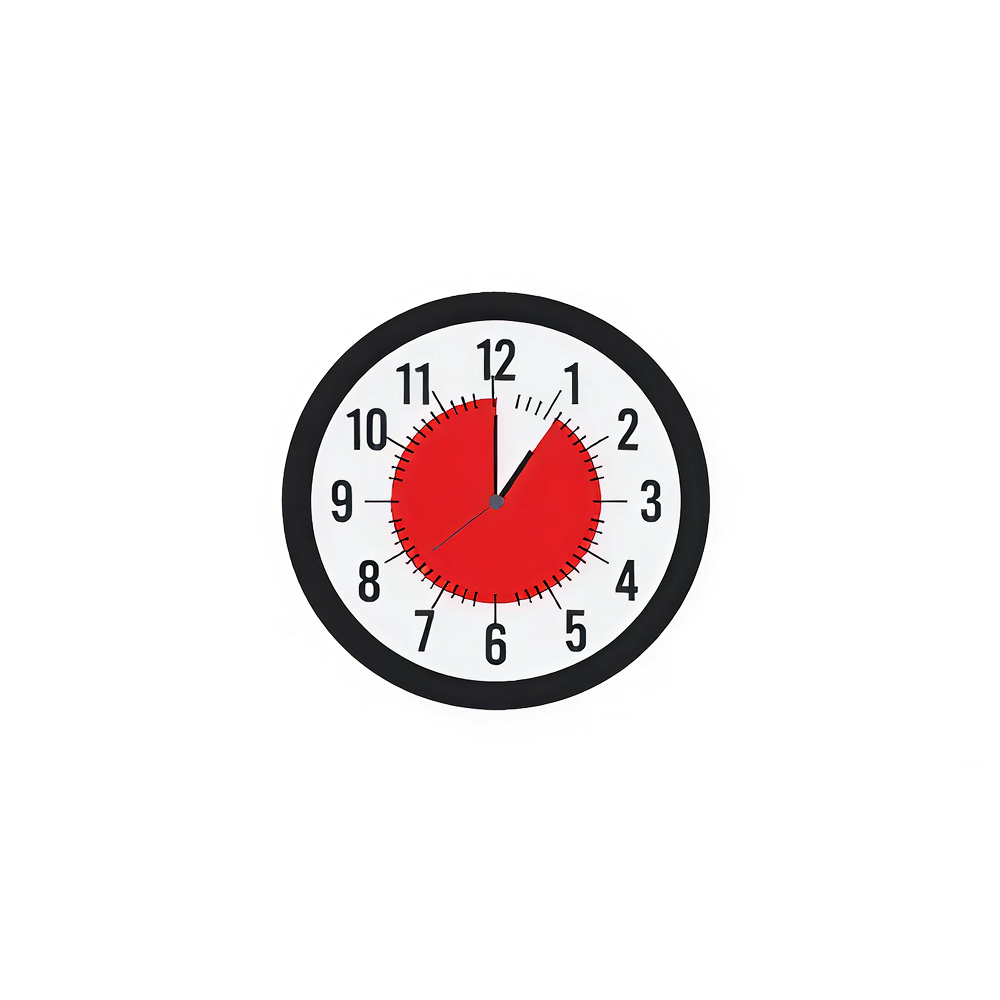
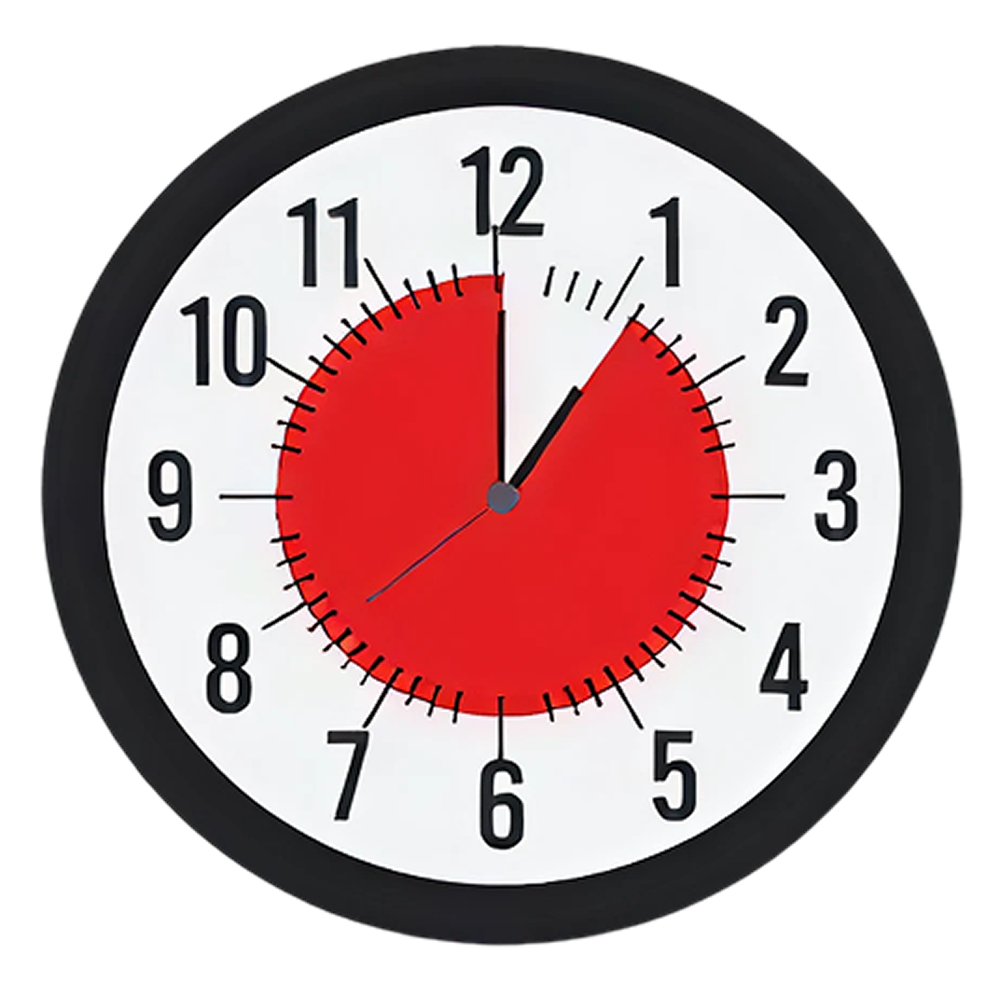
changes

diff --git a/src/index.css b/src/index.css
@@ -473,12 +473,19 @@ input[type="number"]::-webkit-outer-spin-button {
   /* background: linear-gradient(180deg, #feffff 0%, #dceaf7 100%); */
   background-color: #dceaf7;
 }
-
+.main-header-top{
+  padding-top: 20px;
+  position: sticky;
+  top: -30px;
+  z-index: 50;
+  left: 0;
+}
 .main-header {
   z-index: 9;
   max-width: 1024px;
   margin-left: auto;
   margin-right: auto;
+
 }
 
 .main-header > div {
@@ -716,9 +723,7 @@ input[type="number"]::-webkit-outer-spin-button {
   margin: 0;
   
 }
-.dash-hexuple-items .dashboard-cards p{
-line-height: 1.1;
-}
+
 .dashboard-cards {
   display: flex;
   flex-direction: column;
@@ -1456,12 +1461,12 @@ body,
 }
 
 .depressed-cards {
-  height: 500px;
-  width: 500px;
-  margin-left: auto;
-  margin-right: auto;
-  margin-bottom: 30px;
-  margin-top: 55px;
+     height: 400px;
+    width: 400px;
+    margin-left: auto;
+    margin-right: auto;
+    margin-bottom: 30px;
+    margin-top: 30px;
 }
 
 .depressed-cards .dashboard-img {
@@ -1575,30 +1580,31 @@ body,
 .topicSetting-hexuple-items .dashboard-cards {
   height: 100%;
   width: 100%;
+  justify-content: center;
 }
 
 .topicSetting-single-items {
-  height: 100vh;
+  height: 70vh;
   width: 100%;
 }
 
 .topicSetting-double-items {
-  height: 90vh;
+  height: 70vh;
   width: 100%;
 }
 
 .topicSetting-triple-items {
-  height: 85vh;
+  height: 68vh;
   width: 100%;
 }
 
 .topicSetting-quadriple-items {
-  height: 85vh;
+  height: 65vh;
   width: 100%;
 }
 
 .topicSetting-hexuple-items {
-  height: 41vh;
+  height: 33vh;
   width: 100%;
 }
 .custom-wdth {
@@ -2013,10 +2019,12 @@ body,
 }
 .topicSetting-quadriple-items .dashboard-cards{
   height: 100%;
-  justify-content: space-between;
 }
 .setting-page{
   padding-bottom: 30px;
+}
+.dash-hexuple-items .dashboard-cards p{
+line-height: 1.1;
 }
 }
 .down-arrow.hide {
@@ -2068,16 +2076,9 @@ body.font-cls {
   overflow: hidden;
 }
 .rating-bar-tp .line-bar{
-  top: 0;
+  top: 0; 
 }
 
-
-img {
-  -webkit-touch-callout: none; /* disables long-press menu */
-  -webkit-user-select: none;
-  user-select: none;
-  pointer-events: none; /* optional: fully disables interaction */
-}
 .imagelibarary-header{
       width: 100%;
     left: 50%;
@@ -2106,23 +2107,6 @@ img {
   z-index: 9999;
 }
 
-.images-library-wrapper .dashboard-cards{
-  position: relative;
-}
-.images-library-wrapper .dashboard-cards .library-selected-check{
-         height: 30px;
-    width: 30px;
-    background-color: #0088dc;
-    color: #fff;
-    display: flex;
-    justify-content: center;
-    align-items: center;
-    position: absolute;
-    right: 4px;
-    top: 4px;
-    z-index: 99999;
-    border-radius: 50%;
-}
-.images-library-wrapper .dashboard-cards .library-selected-check svg{
-  width: 22px;
-}
+
+
+

diff --git a/src/Component/Layout/Header/Header.jsx b/src/Component/Layout/Header/Header.jsx
@@ -370,9 +370,9 @@ const Header = ({
       />
       {/* <div className="main-header-top bg-[#dceaf7] sticky left-0 right-0 top-0 z-10"> */}
       <div
-        className="main-header-top sticky top-0 z-40
+        className="main-header-top 
          bg-[#dceaf7]
-         transform-gpu"
+         "
       >
         <header className=" py-3  main-header">
           <div className="flex items-center justify-between">

diff --git a/src/pages/BreathingCoughing/BreathingYesNo.jsx b/src/pages/BreathingCoughing/BreathingYesNo.jsx
@@ -79,8 +79,8 @@ function BreathingYesNo() {
                 : concernValues.name || ""
             }
           />
-          <div className="main-wrapper home-wrapper items-center justify-center flex flex-col vrtical-cntr">
-            <div className="grid grid-cols-2 gap-18 my-5 items-center common-scale mt-12">
+          <div className="main-wrapper home-wrapper items-center justify-center flex flex-col min-h-[90vh]">
+            <div className="grid grid-cols-2 gap-18 my-0 items-center common-scale mt-5">
               <div
                 className={`dashboard-cards brthng-card rounded-2xl bg-white text-center shadow-sm p-3
   `}

diff --git a/src/pages/BreathingCoughing/ConfrmStepYesNo.jsx b/src/pages/BreathingCoughing/ConfrmStepYesNo.jsx
@@ -153,9 +153,9 @@ function ConfrmStepYesNo() {
             calendarOn={''}
             name={displayText ?? value?.name}
           />
-          <div className="main-wrapper home-wrapper items-center justify-center flex flex-col vrtical-cntr">
+          <div className="main-wrapper home-wrapper items-center justify-center flex flex-col min-h-[90vh]">
             <div
-              className={`grid grid-cols-2 gap-18 my-5 items-center common-scale mt-12`}
+              className={`grid grid-cols-2 gap-18 my-0 items-center common-scale mt-5`}
             >
               <div className="dashboard-cards brthng-card rounded-2xl bg-white text-center shadow-sm p-3">
                 <div className="dashboard-img rounded-2xl h-full w-full">

diff --git a/src/pages/Pain/ConcernPain.jsx b/src/pages/Pain/ConcernPain.jsx
@@ -59,8 +59,8 @@ function ConcernPain() {
               partName || "Pain"
             }
           />
-          <div className="main-wrapper home-wrapper items-center justify-center flex flex-col vrtical-cntr">
-            <div className="grid grid-cols-2 gap-18 my-5 items-center common-scale mt-12">
+          <div className="main-wrapper home-wrapper items-center justify-center flex flex-col min-h-[90vh]">
+            <div className="grid grid-cols-2 gap-18 my-0 items-center common-scale mt-0">
               <div className="dashboard-cards brthng-card rounded-2xl bg-white text-center shadow-sm p-3">
                 <div className="dashboard-img rounded-2xl h-full w-full">
                   <div className="h-full w-full">

diff --git a/src/pages/YesAndNo/YesAndNo.jsx b/src/pages/YesAndNo/YesAndNo.jsx
@@ -52,8 +52,8 @@ function YesAndNo() {
                 : option?.name || "Pain"
             }
           />
-          <div className="main-wrapper home-wrapper items-center justify-center flex flex-col  vrtical-cntr">
-            <div className="grid grid-cols-2 gap-18  my-5 items-center common-scale mt-12">
+          <div className="main-wrapper home-wrapper items-center justify-center flex flex-col  min-h-[80vh]">
+            <div className="grid grid-cols-2 gap-18  my-0 items-center common-scale mt-5">
               <div className="dashboard-cards brthng-card rounded-2xl bg-white text-center shadow-sm p-3">
                 <div className="dashboard-img rounded-2xl w-full h-full">
                   {/* <img src={HowAreYou1} className="w-full" /> */}

diff --git a/index.html b/index.html
@@ -3,7 +3,9 @@
   <head>
     <meta charset="UTF-8" />
     <link rel="icon" type="image/svg+xml" href="/favicon.png" />
+    
     <meta name="viewport" content="width=device-width, initial-scale=1" />
+    <meta name="apple-mobile-web-app-status-bar-style" content="default">
      <!-- <meta name="viewport" content="width=device-width, initial-scale=1, maximum-scale=5, user-scalable=yes"> -->
 
     <title>MedConcerns</title>